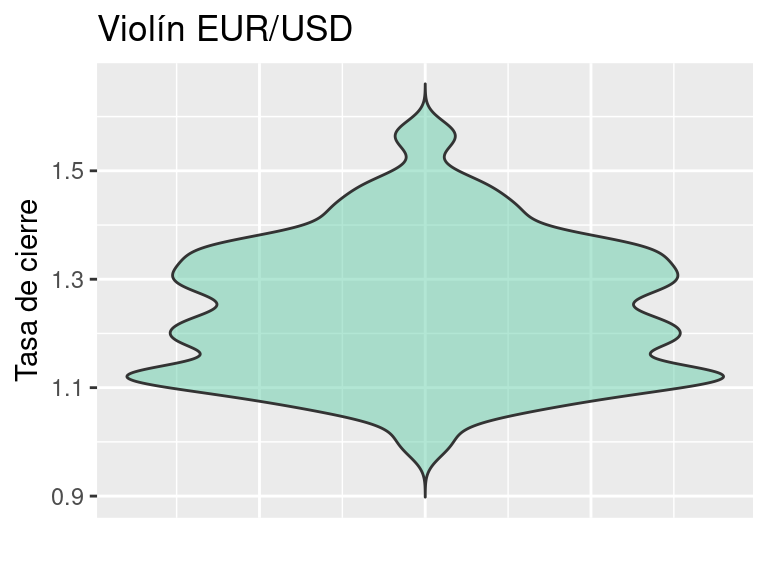
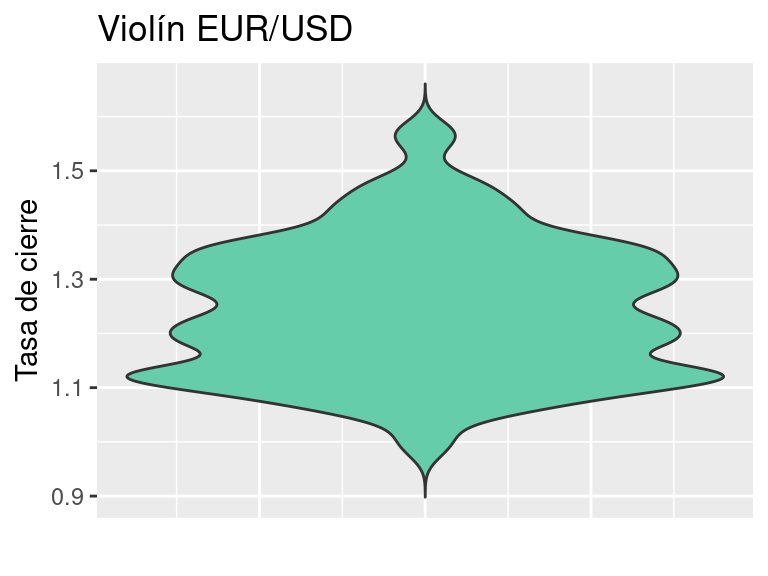
Unidad 1

Changed region(s): [[0.1562, 0.1875, 0.9375, 0.8125]]

diff --git a/docs/tópicos-básicos-de-estadística.html b/docs/tópicos-básicos-de-estadística.html
@@ -242,17 +242,14 @@ div.csl-indent {
 <li class="chapter" data-level="3.4.3" data-path="distribuciones-muestrales-y-pruebas-de-hipótesis.html"><a href="distribuciones-muestrales-y-pruebas-de-hipótesis.html#comparación-de-varianzas"><i class="fa fa-check"></i><b>3.4.3</b> Comparación de varianzas</a></li>
 <li class="chapter" data-level="3.4.4" data-path="distribuciones-muestrales-y-pruebas-de-hipótesis.html"><a href="distribuciones-muestrales-y-pruebas-de-hipótesis.html#diferencia-de-proporciones"><i class="fa fa-check"></i><b>3.4.4</b> Diferencia de proporciones</a></li>
 </ul></li>
-</ul></li>
-<li class="chapter" data-level="4" data-path="intervalos-de-confianza.html"><a href="intervalos-de-confianza.html"><i class="fa fa-check"></i><b>4</b> Intervalos de confianza</a>
+<li class="chapter" data-level="3.5" data-path="distribuciones-muestrales-y-pruebas-de-hipótesis.html"><a href="distribuciones-muestrales-y-pruebas-de-hipótesis.html#una-media-1"><i class="fa fa-check"></i><b>3.5</b> Una media</a>
 <ul>
-<li class="chapter" data-level="4.1" data-path="intervalos-de-confianza.html"><a href="intervalos-de-confianza.html#una-media-1"><i class="fa fa-check"></i><b>4.1</b> Una media</a>
-<ul>
-<li class="chapter" data-level="4.1.1" data-path="intervalos-de-confianza.html"><a href="intervalos-de-confianza.html#bajo-distribución-normal"><i class="fa fa-check"></i><b>4.1.1</b> Bajo distribución normal</a></li>
-<li class="chapter" data-level="4.1.2" data-path="intervalos-de-confianza.html"><a href="intervalos-de-confianza.html#asintótico"><i class="fa fa-check"></i><b>4.1.2</b> Asintótico</a></li>
+<li class="chapter" data-level="3.5.1" data-path="distribuciones-muestrales-y-pruebas-de-hipótesis.html"><a href="distribuciones-muestrales-y-pruebas-de-hipótesis.html#bajo-distribución-normal"><i class="fa fa-check"></i><b>3.5.1</b> Bajo distribución normal</a></li>
+<li class="chapter" data-level="3.5.2" data-path="distribuciones-muestrales-y-pruebas-de-hipótesis.html"><a href="distribuciones-muestrales-y-pruebas-de-hipótesis.html#asintótico"><i class="fa fa-check"></i><b>3.5.2</b> Asintótico</a></li>
 </ul></li>
-<li class="chapter" data-level="4.2" data-path="intervalos-de-confianza.html"><a href="intervalos-de-confianza.html#diferencia-de-medias-1"><i class="fa fa-check"></i><b>4.2</b> Diferencia de medias</a></li>
-<li class="chapter" data-level="4.3" data-path="intervalos-de-confianza.html"><a href="intervalos-de-confianza.html#compraración-de-varianzas"><i class="fa fa-check"></i><b>4.3</b> Compraración de varianzas</a></li>
-<li class="chapter" data-level="4.4" data-path="intervalos-de-confianza.html"><a href="intervalos-de-confianza.html#diferencia-de-proporciones-1"><i class="fa fa-check"></i><b>4.4</b> Diferencia de proporciones</a></li>
+<li class="chapter" data-level="3.6" data-path="distribuciones-muestrales-y-pruebas-de-hipótesis.html"><a href="distribuciones-muestrales-y-pruebas-de-hipótesis.html#diferencia-de-medias-1"><i class="fa fa-check"></i><b>3.6</b> Diferencia de medias</a></li>
+<li class="chapter" data-level="3.7" data-path="distribuciones-muestrales-y-pruebas-de-hipótesis.html"><a href="distribuciones-muestrales-y-pruebas-de-hipótesis.html#compraración-de-varianzas"><i class="fa fa-check"></i><b>3.7</b> Compraración de varianzas</a></li>
+<li class="chapter" data-level="3.8" data-path="distribuciones-muestrales-y-pruebas-de-hipótesis.html"><a href="distribuciones-muestrales-y-pruebas-de-hipótesis.html#diferencia-de-proporciones-1"><i class="fa fa-check"></i><b>3.8</b> Diferencia de proporciones</a></li>
 </ul></li>
 <li class="chapter" data-level="" data-path="referencias.html"><a href="referencias.html"><i class="fa fa-check"></i>Referencias</a></li>
 <li class="divider"></li>
@@ -501,7 +498,7 @@ Figura 1.5: Muestra 2
 <ol style="list-style-type: decimal">
 <li>Replique los anterior para el resto de variables presentes en la base de datos (ignore la variable fecha).</li>
 </ol>
-<p><strong>Nota</strong>: en el documento se usará simplemente el nombre de la medida de localización (media, moda, mediana) para referirse a la muestral. En casos determinados se hará la distinción entre el caso muestral y poblacional, según corresponda (ejemplo: media poblacional, media muestral).</p>
+<p><strong>Nota</strong>: en el documento se usará simplemente el nombre de la medida de localización (media, moda, mediana) para referirse a la medida de localización muestral. En casos determinados se hará la distinción entre el caso muestral y poblacional, según corresponda (ejemplo: media poblacional, media muestral).</p>
 </div>
 </div>
 <div id="medidas-de-escala" class="section level3 hasAnchor" number="1.1.10">
@@ -691,7 +688,7 @@ CV = \left(\frac{S}{|\bar{x}|}\right)\cdot 100\%
 <ol style="list-style-type: decimal">
 <li>Comparar la variabilidad entre la tasa de más baja y de cierre histórica del EUR/USD. Interprete.</li>
 </ol>
-<p><strong>Nota</strong>: en el documento se usará simplemente el nombre de la medida de escala (rango, varianza, desviación estándar y CV) para referirse a la muestral. En casos determinados se hará la distinción entre el caso muestral y poblacional, según corresponda (ejemplo: varianza poblacional, varianza muestral).</p>
+<p><strong>Nota</strong>: en el documento se usará simplemente el nombre de la medida de escala (rango, varianza, desviación estándar y CV) para referirse a la medida de escala muestral. En casos determinados se hará la distinción entre el caso muestral y poblacional, según corresponda (ejemplo: varianza poblacional, varianza muestral).</p>
 </div>
 <div id="notación-poblacional-y-muestral" class="section level4 unnumbered hasAnchor">
 <h4>Notación poblacional y muestral<a href="tópicos-básicos-de-estadística.html#notación-poblacional-y-muestral" class="anchor-section" aria-label="Anchor link to header"></a></h4>
@@ -765,9 +762,14 @@ Desviación estándar
 <p>Para obtener el histograma en R, a partir de un conjunto de datos, se utiliza el siguiente código:</p>
 <div class="sourceCode" id="cb36"><pre class="sourceCode r"><code class="sourceCode r"><span id="cb36-1"><a href="tópicos-básicos-de-estadística.html#cb36-1" aria-hidden="true" tabindex="-1"></a><span class="fu">library</span>(ggplot2)</span>
 <span id="cb36-2"><a href="tópicos-básicos-de-estadística.html#cb36-2" aria-hidden="true" tabindex="-1"></a><span class="fu">ggplot</span>(<span class="at">data =</span> datos, <span class="co"># Base de datos a utilizar</span></span>
-<span id="cb36-3"><a href="tópicos-básicos-de-estadística.html#cb36-3" aria-hidden="true" tabindex="-1"></a>       <span class="fu">aes</span>(<span class="at">x =</span> Close)) <span class="sc">+</span> <span class="co"># Comando estético para señalar la variable a graficar y en que eje</span></span>
-<span id="cb36-4"><a href="tópicos-básicos-de-estadística.html#cb36-4" aria-hidden="true" tabindex="-1"></a>  <span class="fu">geom_histogram</span>(<span class="at">bins =</span> <span class="dv">13</span>, <span class="at">color =</span> <span class="st">&quot;white&quot;</span>, <span class="at">fill =</span> <span class="st">&quot;darkred&quot;</span>, <span class="at">closed =</span> <span class="st">&quot;left&quot;</span>) <span class="sc">+</span></span>
-<span id="cb36-5"><a href="tópicos-básicos-de-estadística.html#cb36-5" aria-hidden="true" tabindex="-1"></a>  <span class="fu">labs</span>(<span class="at">title =</span> <span class="st">&quot;Histograma EUR/USD&quot;</span>, <span class="at">x =</span> <span class="st">&quot;Tasa de cierre&quot;</span>, <span class="at">y =</span> <span class="st">&quot;Frecuencia&quot;</span>)</span></code></pre></div>
+<span id="cb36-3"><a href="tópicos-básicos-de-estadística.html#cb36-3" aria-hidden="true" tabindex="-1"></a>       <span class="fu">aes</span>(<span class="at">x =</span> Close)) <span class="sc">+</span> <span class="co"># Comando estético: eje y variable</span></span>
+<span id="cb36-4"><a href="tópicos-básicos-de-estadística.html#cb36-4" aria-hidden="true" tabindex="-1"></a>  <span class="fu">geom_histogram</span>(<span class="at">bins =</span> <span class="dv">13</span>, <span class="co"># Cantidad de intervalos del histograma</span></span>
+<span id="cb36-5"><a href="tópicos-básicos-de-estadística.html#cb36-5" aria-hidden="true" tabindex="-1"></a>                 <span class="at">color =</span> <span class="st">&quot;white&quot;</span>, <span class="co"># Color del borde de las barras del histograma</span></span>
+<span id="cb36-6"><a href="tópicos-básicos-de-estadística.html#cb36-6" aria-hidden="true" tabindex="-1"></a>                 <span class="at">fill =</span> <span class="st">&quot;darkred&quot;</span>, <span class="co"># Color de relleno de las barras</span></span>
+<span id="cb36-7"><a href="tópicos-básicos-de-estadística.html#cb36-7" aria-hidden="true" tabindex="-1"></a>                 <span class="at">closed =</span> <span class="st">&quot;left&quot;</span>) <span class="sc">+</span> <span class="co"># Tipo de intervalo del histograma</span></span>
+<span id="cb36-8"><a href="tópicos-básicos-de-estadística.html#cb36-8" aria-hidden="true" tabindex="-1"></a>  <span class="fu">labs</span>(<span class="at">title =</span> <span class="st">&quot;Histograma EUR/USD&quot;</span>, <span class="co"># Título del gráfico</span></span>
+<span id="cb36-9"><a href="tópicos-básicos-de-estadística.html#cb36-9" aria-hidden="true" tabindex="-1"></a>       <span class="at">x =</span> <span class="st">&quot;Tasa de cierre&quot;</span>, <span class="co"># Título del eje X</span></span>
+<span id="cb36-10"><a href="tópicos-básicos-de-estadística.html#cb36-10" aria-hidden="true" tabindex="-1"></a>       <span class="at">y =</span> <span class="st">&quot;Frecuencia&quot;</span>) <span class="co"># Título del eje Y</span></span></code></pre></div>
 <p><img src="est1+descriptiva_files/figure-html/unnamed-chunk-13-1.png" width="384" style="display: block; margin: auto;" /></p>
 <p>Es útil recordar que el histograma está asociado a una tabla de frecuencia por intervalos. Para obtener la tabla asociada a un histograma se puede utilizar el siguiente código.</p>
 <div class="sourceCode" id="cb37"><pre class="sourceCode r"><code class="sourceCode r"><span id="cb37-1"><a href="tópicos-básicos-de-estadística.html#cb37-1" aria-hidden="true" tabindex="-1"></a><span class="co"># Datos del histograma guardados</span></span>
@@ -791,46 +793,89 @@ Desviación estándar
 ## 11  1.45  1.50 1.475       166        3.3 4844  97.5
 ## 12  1.50  1.55 1.525        38        0.8 4882  98.3
 ## 13  1.55  1.60 1.575        84        1.7 4966 100.0</code></pre>
+<p><strong>Ejercicio:</strong></p>
+<ol style="list-style-type: decimal">
+<li>Elaborar un histograma y obtener la tabla de frecuencias asociada, utilizando la variable <strong>Low</strong>.</li>
+</ol>
 </div>
 <div id="caja" class="section level3 hasAnchor" number="1.2.2">
 <h3><span class="header-section-number">1.2.2</span> Caja<a href="tópicos-básicos-de-estadística.html#caja" class="anchor-section" aria-label="Anchor link to header"></a></h3>
-<p>Este gráfico se utiliza para evidenciar las medidas de posición conocidas como cuartiles.</p>
-<div class="sourceCode" id="cb39"><pre class="sourceCode r"><code class="sourceCode r"><span id="cb39-1"><a href="tópicos-básicos-de-estadística.html#cb39-1" aria-hidden="true" tabindex="-1"></a><span class="fu">ggplot</span>(<span class="at">data =</span> datos, <span class="fu">aes</span>(<span class="at">y =</span> Close)) <span class="sc">+</span> </span>
-<span id="cb39-2"><a href="tópicos-básicos-de-estadística.html#cb39-2" aria-hidden="true" tabindex="-1"></a>  <span class="fu">geom_boxplot</span>(<span class="at">color =</span> <span class="st">&quot;black&quot;</span>, <span class="at">fill =</span> <span class="st">&quot;darkred&quot;</span>) <span class="sc">+</span></span>
-<span id="cb39-3"><a href="tópicos-básicos-de-estadística.html#cb39-3" aria-hidden="true" tabindex="-1"></a>  <span class="fu">labs</span>(<span class="at">title =</span> <span class="st">&quot;Caja EUR/USD&quot;</span>, <span class="at">x =</span> <span class="st">&quot;Tasa de cierre&quot;</span>, <span class="at">y =</span> <span class="st">&quot;Dispersión/Cuantiles&quot;</span>) </span></code></pre></div>
+<p>El gráfico de caja se utiliza para describir las siguiente características de un conjunto de datos <span class="citation">(<a href="#ref-Devore" role="doc-biblioref">Devore 2008</a>, página 35)</span>:</p>
+<ul>
+<li>El centro.</li>
+<li>La dispersión.</li>
+<li>El grado y naturaleza de cualquier alejamiento de la simetría.</li>
+<li>La identificación de las observaciones “extremas” (atípicas) inusualmente alejadas del cuerpo principal de los datos.</li>
+</ul>
+<p>Los pasos para elaborar un gráfico de caja son los siguiente <span class="citation">(<a href="#ref-anderson" role="doc-biblioref">Anderson, Sweeney, and Williams 2008</a>, página 106)</span>:</p>
+<ol style="list-style-type: decimal">
+<li>Se dibuja una caja cuyos extremos se localicen en primer y tercer cuartiles. Esta caja contiene 50% de los datos centrales.</li>
+<li>En el punto donde se localiza la mediana se traza una linea horizontal.</li>
+<li>Usando el rango intercuartílico (<span class="math inline">\(RIC = Q_3-Q_1\)</span>), se localizan los límites. En un gráfio de cajua los límites se encuentra a <span class="math inline">\(1.5RIC\)</span> abajo y arriba de <span class="math inline">\(Q_1\)</span> y <span class="math inline">\(Q_3\)</span> respectivamente. Los datos que quedan fuera de estos límites se consideran observaciones atípicas.</li>
+<li>Las lineas que se extieden verticalmente desde la caja se les llama <em>bigotes</em>. Los bigotes van desde los extremos de la caja hasta los valores menor y mayor de los límites calculadso en el paso 3.</li>
+<li>Mediante puntos se indica la localización de las observaciones atípicas.</li>
+</ol>
+<div class="sourceCode" id="cb39"><pre class="sourceCode r"><code class="sourceCode r"><span id="cb39-1"><a href="tópicos-básicos-de-estadística.html#cb39-1" aria-hidden="true" tabindex="-1"></a><span class="fu">ggplot</span>(<span class="at">data =</span> datos, <span class="co"># Base de datos a utilizar</span></span>
+<span id="cb39-2"><a href="tópicos-básicos-de-estadística.html#cb39-2" aria-hidden="true" tabindex="-1"></a>       <span class="fu">aes</span>(<span class="at">y =</span> Close)) <span class="sc">+</span> <span class="co"># Comando estético: eje y variable</span></span>
+<span id="cb39-3"><a href="tópicos-básicos-de-estadística.html#cb39-3" aria-hidden="true" tabindex="-1"></a>  <span class="fu">geom_boxplot</span>(<span class="at">color =</span> <span class="st">&quot;black&quot;</span>, <span class="co"># Color del borde del gráfico</span></span>
+<span id="cb39-4"><a href="tópicos-básicos-de-estadística.html#cb39-4" aria-hidden="true" tabindex="-1"></a>               <span class="at">fill =</span> <span class="st">&quot;darkred&quot;</span>) <span class="sc">+</span> <span class="co"># Color de relleno del gráfico</span></span>
+<span id="cb39-5"><a href="tópicos-básicos-de-estadística.html#cb39-5" aria-hidden="true" tabindex="-1"></a>  <span class="fu">labs</span>(<span class="at">title =</span> <span class="st">&quot;Caja EUR/USD&quot;</span>, <span class="co"># Título del gráfico</span></span>
+<span id="cb39-6"><a href="tópicos-básicos-de-estadística.html#cb39-6" aria-hidden="true" tabindex="-1"></a>       <span class="at">x =</span> <span class="st">&quot;Tasa de cierre&quot;</span>, <span class="co"># Título del eje X</span></span>
+<span id="cb39-7"><a href="tópicos-básicos-de-estadística.html#cb39-7" aria-hidden="true" tabindex="-1"></a>       <span class="at">y =</span> <span class="st">&quot;Dispersión/Cuantiles&quot;</span>) <span class="co"># Título del eje Y</span></span></code></pre></div>
 <p><img src="est1+descriptiva_files/figure-html/unnamed-chunk-15-1.png" width="384" style="display: block; margin: auto;" /></p>
 </div>
 <div id="violín" class="section level3 hasAnchor" number="1.2.3">
 <h3><span class="header-section-number">1.2.3</span> Violín<a href="tópicos-básicos-de-estadística.html#violín" class="anchor-section" aria-label="Anchor link to header"></a></h3>
 <p>Gráfico utilizado para conocer la concentración de datos; es muy similar al histograma.</p>
-<div class="sourceCode" id="cb40"><pre class="sourceCode r"><code class="sourceCode r"><span id="cb40-1"><a href="tópicos-básicos-de-estadística.html#cb40-1" aria-hidden="true" tabindex="-1"></a>g <span class="ot">=</span> <span class="fu">ggplot</span>(<span class="at">data =</span> datos, <span class="fu">aes</span>(<span class="at">x =</span> <span class="dv">1</span>, <span class="at">y =</span> Close)) <span class="sc">+</span> </span>
-<span id="cb40-2"><a href="tópicos-básicos-de-estadística.html#cb40-2" aria-hidden="true" tabindex="-1"></a>  <span class="fu">geom_violin</span>(<span class="at">trim =</span> F, <span class="at">alpha =</span> <span class="fl">0.5</span>, <span class="at">fill =</span> <span class="st">&quot;aquamarine3&quot;</span>) <span class="sc">+</span></span>
-<span id="cb40-3"><a href="tópicos-básicos-de-estadística.html#cb40-3" aria-hidden="true" tabindex="-1"></a>  <span class="fu">labs</span>(<span class="at">title =</span> <span class="st">&quot;Violín EUR/USD&quot;</span>, <span class="at">x =</span> <span class="st">&quot;&quot;</span>, <span class="at">y =</span> <span class="st">&quot;Tasa de cierre&quot;</span>) <span class="sc">+</span> </span>
-<span id="cb40-4"><a href="tópicos-básicos-de-estadística.html#cb40-4" aria-hidden="true" tabindex="-1"></a>  <span class="fu">theme</span>(<span class="at">axis.ticks.x =</span> <span class="fu">element_blank</span>(),</span>
-<span id="cb40-5"><a href="tópicos-básicos-de-estadística.html#cb40-5" aria-hidden="true" tabindex="-1"></a>        <span class="at">axis.text.x =</span> <span class="fu">element_blank</span>())</span>
-<span id="cb40-6"><a href="tópicos-básicos-de-estadística.html#cb40-6" aria-hidden="true" tabindex="-1"></a>g</span></code></pre></div>
+<div class="sourceCode" id="cb40"><pre class="sourceCode r"><code class="sourceCode r"><span id="cb40-1"><a href="tópicos-básicos-de-estadística.html#cb40-1" aria-hidden="true" tabindex="-1"></a><span class="co"># Se guarda el gráfico en una variable para posteriormente</span></span>
+<span id="cb40-2"><a href="tópicos-básicos-de-estadística.html#cb40-2" aria-hidden="true" tabindex="-1"></a><span class="co"># integrar otros gráficos dentro de este.</span></span>
+<span id="cb40-3"><a href="tópicos-básicos-de-estadística.html#cb40-3" aria-hidden="true" tabindex="-1"></a>g <span class="ot">=</span> <span class="fu">ggplot</span>(<span class="at">data =</span> datos, <span class="co"># Base de datos a utilizar</span></span>
+<span id="cb40-4"><a href="tópicos-básicos-de-estadística.html#cb40-4" aria-hidden="true" tabindex="-1"></a>           <span class="fu">aes</span>(<span class="at">x =</span> <span class="dv">1</span>, <span class="at">y =</span> Close)) <span class="sc">+</span> <span class="co"># Comando estético: variables a graficar </span></span>
+<span id="cb40-5"><a href="tópicos-básicos-de-estadística.html#cb40-5" aria-hidden="true" tabindex="-1"></a>  <span class="fu">geom_violin</span>(<span class="at">trim =</span> F, <span class="co"># Modifica las terminaciones visuales superior e inferior</span></span>
+<span id="cb40-6"><a href="tópicos-básicos-de-estadística.html#cb40-6" aria-hidden="true" tabindex="-1"></a>              <span class="at">fill =</span> <span class="st">&quot;aquamarine3&quot;</span>) <span class="sc">+</span> <span class="co"># Color de relleno del gráfico</span></span>
+<span id="cb40-7"><a href="tópicos-básicos-de-estadística.html#cb40-7" aria-hidden="true" tabindex="-1"></a>  <span class="fu">labs</span>(<span class="at">title =</span> <span class="st">&quot;Violín EUR/USD&quot;</span>, <span class="co"># Título del gráfico</span></span>
+<span id="cb40-8"><a href="tópicos-básicos-de-estadística.html#cb40-8" aria-hidden="true" tabindex="-1"></a>       <span class="at">x =</span> <span class="st">&quot;&quot;</span>, <span class="co"># Título del eje X</span></span>
+<span id="cb40-9"><a href="tópicos-básicos-de-estadística.html#cb40-9" aria-hidden="true" tabindex="-1"></a>       <span class="at">y =</span> <span class="st">&quot;Tasa de cierre&quot;</span>) <span class="sc">+</span> <span class="co"># Título del eje Y</span></span>
+<span id="cb40-10"><a href="tópicos-básicos-de-estadística.html#cb40-10" aria-hidden="true" tabindex="-1"></a>  <span class="fu">theme</span>(<span class="at">axis.ticks.x =</span> <span class="fu">element_blank</span>(), <span class="co"># Elimina las regletas del eje X</span></span>
+<span id="cb40-11"><a href="tópicos-básicos-de-estadística.html#cb40-11" aria-hidden="true" tabindex="-1"></a>        <span class="at">axis.text.x =</span> <span class="fu">element_blank</span>()) <span class="co"># Elimina los números del eje X</span></span>
+<span id="cb40-12"><a href="tópicos-básicos-de-estadística.html#cb40-12" aria-hidden="true" tabindex="-1"></a>g <span class="co"># Desplegamos el gráfico en el visualizador</span></span></code></pre></div>
 <p><img src="est1+descriptiva_files/figure-html/unnamed-chunk-16-1.png" width="384" style="display: block; margin: auto;" /></p>
-<div class="sourceCode" id="cb41"><pre class="sourceCode r"><code class="sourceCode r"><span id="cb41-1"><a href="tópicos-básicos-de-estadística.html#cb41-1" aria-hidden="true" tabindex="-1"></a>g <span class="sc">+</span> <span class="fu">geom_boxplot</span>(<span class="at">width =</span> <span class="fl">0.1</span>, <span class="at">color =</span> <span class="st">&quot;black&quot;</span>,</span>
-<span id="cb41-2"><a href="tópicos-básicos-de-estadística.html#cb41-2" aria-hidden="true" tabindex="-1"></a>                 <span class="at">alpha =</span> <span class="fl">0.3</span>, <span class="at">fill =</span> <span class="st">&quot;darkblue&quot;</span>)  <span class="sc">+</span></span>
-<span id="cb41-3"><a href="tópicos-básicos-de-estadística.html#cb41-3" aria-hidden="true" tabindex="-1"></a>  <span class="fu">stat_summary</span>(<span class="at">fun =</span> mean, <span class="at">geom =</span> <span class="st">&quot;point&quot;</span>,</span>
-<span id="cb41-4"><a href="tópicos-básicos-de-estadística.html#cb41-4" aria-hidden="true" tabindex="-1"></a>               <span class="at">size =</span> <span class="dv">1</span>, <span class="at">color =</span> <span class="st">&quot;red&quot;</span>)</span></code></pre></div>
+<div class="sourceCode" id="cb41"><pre class="sourceCode r"><code class="sourceCode r"><span id="cb41-1"><a href="tópicos-básicos-de-estadística.html#cb41-1" aria-hidden="true" tabindex="-1"></a><span class="co"># Agregamos otros elementos al gráfico guardado</span></span>
+<span id="cb41-2"><a href="tópicos-básicos-de-estadística.html#cb41-2" aria-hidden="true" tabindex="-1"></a>g <span class="sc">+</span> <span class="fu">geom_boxplot</span>(<span class="at">width =</span> <span class="fl">0.1</span>, <span class="co"># Anchura del nuevo gráfico de caja</span></span>
+<span id="cb41-3"><a href="tópicos-básicos-de-estadística.html#cb41-3" aria-hidden="true" tabindex="-1"></a>                 <span class="at">color =</span> <span class="st">&quot;black&quot;</span>, <span class="co"># Color de borde del gráfico</span></span>
+<span id="cb41-4"><a href="tópicos-básicos-de-estadística.html#cb41-4" aria-hidden="true" tabindex="-1"></a>                 <span class="at">fill =</span> <span class="st">&quot;lightblue2&quot;</span>) <span class="sc">+</span> <span class="co"># Color de relleno del gráfico</span></span>
+<span id="cb41-5"><a href="tópicos-básicos-de-estadística.html#cb41-5" aria-hidden="true" tabindex="-1"></a>  <span class="fu">stat_summary</span>(<span class="at">fun =</span> mean, <span class="co"># Función que indica el tipo de información (mean = media)</span></span>
+<span id="cb41-6"><a href="tópicos-básicos-de-estadística.html#cb41-6" aria-hidden="true" tabindex="-1"></a>               <span class="at">geom =</span> <span class="st">&quot;point&quot;</span>, <span class="co"># Forma visual</span></span>
+<span id="cb41-7"><a href="tópicos-básicos-de-estadística.html#cb41-7" aria-hidden="true" tabindex="-1"></a>               <span class="at">size =</span> <span class="dv">1</span>, <span class="co"># Tamaño</span></span>
+<span id="cb41-8"><a href="tópicos-básicos-de-estadística.html#cb41-8" aria-hidden="true" tabindex="-1"></a>               <span class="at">color =</span> <span class="st">&quot;red&quot;</span>) <span class="co"># Color</span></span></code></pre></div>
 <p><img src="est1+descriptiva_files/figure-html/unnamed-chunk-17-1.png" width="384" style="display: block; margin: auto;" /></p>
 </div>
 <div id="barras" class="section level3 hasAnchor" number="1.2.4">
 <h3><span class="header-section-number">1.2.4</span> Barras<a href="tópicos-básicos-de-estadística.html#barras" class="anchor-section" aria-label="Anchor link to header"></a></h3>
 <p>Gráfico por excelencia para visualizar la frecuencia de variables cualitativas.</p>
-<div class="sourceCode" id="cb42"><pre class="sourceCode r"><code class="sourceCode r"><span id="cb42-1"><a href="tópicos-básicos-de-estadística.html#cb42-1" aria-hidden="true" tabindex="-1"></a>datos<span class="sc">$</span>Close2 <span class="ot">=</span> <span class="fu">ifelse</span>(datos<span class="sc">$</span>Close <span class="sc">&gt;</span> <span class="fl">1.1</span>, <span class="st">&quot;Mayor a 1.1&quot;</span>, <span class="st">&quot;Menor a  1.1&quot;</span>)</span>
-<span id="cb42-2"><a href="tópicos-básicos-de-estadística.html#cb42-2" aria-hidden="true" tabindex="-1"></a><span class="fu">ggplot</span>(<span class="at">data =</span> datos,<span class="fu">aes</span>(<span class="at">x =</span> Close2)) <span class="sc">+</span> </span>
-<span id="cb42-3"><a href="tópicos-básicos-de-estadística.html#cb42-3" aria-hidden="true" tabindex="-1"></a>  <span class="fu">geom_bar</span>(<span class="at">fill =</span> <span class="st">&quot;darkgreen&quot;</span>) <span class="sc">+</span> </span>
-<span id="cb42-4"><a href="tópicos-básicos-de-estadística.html#cb42-4" aria-hidden="true" tabindex="-1"></a>  <span class="fu">labs</span>(<span class="at">title =</span> <span class="st">&quot;Barras EUR/USD&quot;</span>, <span class="at">x =</span> <span class="st">&quot;Tasa de cierre&quot;</span>, <span class="at">y =</span> <span class="st">&quot;Frecuencia&quot;</span>)</span></code></pre></div>
+<div class="sourceCode" id="cb42"><pre class="sourceCode r"><code class="sourceCode r"><span id="cb42-1"><a href="tópicos-básicos-de-estadística.html#cb42-1" aria-hidden="true" tabindex="-1"></a><span class="co"># Nueva variable para dicotomizar la tasa de cierre del EUR/USD</span></span>
+<span id="cb42-2"><a href="tópicos-básicos-de-estadística.html#cb42-2" aria-hidden="true" tabindex="-1"></a>datos<span class="sc">$</span>Close2 <span class="ot">=</span> <span class="fu">ifelse</span>(datos<span class="sc">$</span>Close <span class="sc">&gt;</span> <span class="fl">1.1</span>, <span class="co"># Criterio</span></span>
+<span id="cb42-3"><a href="tópicos-básicos-de-estadística.html#cb42-3" aria-hidden="true" tabindex="-1"></a>                      <span class="st">&quot;Mayor a 1.1&quot;</span>, <span class="co"># Valor asignado si se cumple el criterio</span></span>
+<span id="cb42-4"><a href="tópicos-básicos-de-estadística.html#cb42-4" aria-hidden="true" tabindex="-1"></a>                      <span class="st">&quot;Menor a  1.1&quot;</span>) <span class="co"># Valor asignado si no se cumple el criterio</span></span>
+<span id="cb42-5"><a href="tópicos-básicos-de-estadística.html#cb42-5" aria-hidden="true" tabindex="-1"></a><span class="fu">ggplot</span>(<span class="at">data =</span> datos, <span class="co"># Base de datos a utilizar</span></span>
+<span id="cb42-6"><a href="tópicos-básicos-de-estadística.html#cb42-6" aria-hidden="true" tabindex="-1"></a>       <span class="fu">aes</span>(<span class="at">x =</span> Close2)) <span class="sc">+</span> <span class="co"># Comando estético: eje y variable</span></span>
+<span id="cb42-7"><a href="tópicos-básicos-de-estadística.html#cb42-7" aria-hidden="true" tabindex="-1"></a>  <span class="fu">geom_bar</span>(<span class="at">fill =</span> <span class="st">&quot;darkgreen&quot;</span>) <span class="sc">+</span> <span class="co"># Color de relleno</span></span>
+<span id="cb42-8"><a href="tópicos-básicos-de-estadística.html#cb42-8" aria-hidden="true" tabindex="-1"></a>  <span class="fu">labs</span>(<span class="at">title =</span> <span class="st">&quot;Barras EUR/USD&quot;</span>, <span class="co"># Título del gráfico</span></span>
+<span id="cb42-9"><a href="tópicos-básicos-de-estadística.html#cb42-9" aria-hidden="true" tabindex="-1"></a>       <span class="at">x =</span> <span class="st">&quot;Tasa de cierre&quot;</span>, <span class="co"># Título del eje X</span></span>
+<span id="cb42-10"><a href="tópicos-básicos-de-estadística.html#cb42-10" aria-hidden="true" tabindex="-1"></a>       <span class="at">y =</span> <span class="st">&quot;Frecuencia&quot;</span>) <span class="co"># Título del eje Y</span></span></code></pre></div>
 <p><img src="est1+descriptiva_files/figure-html/unnamed-chunk-18-1.png" width="384" style="display: block; margin: auto;" /></p>
 </div>
 <div id="dispersión" class="section level3 hasAnchor" number="1.2.5">
 <h3><span class="header-section-number">1.2.5</span> Dispersión<a href="tópicos-básicos-de-estadística.html#dispersión" class="anchor-section" aria-label="Anchor link to header"></a></h3>
 <p>Gráfico que permite contrastar dos variables cuantitativas. En general, se usa para estudiar la asociación entre dos variables.</p>
-<div class="sourceCode" id="cb43"><pre class="sourceCode r"><code class="sourceCode r"><span id="cb43-1"><a href="tópicos-básicos-de-estadística.html#cb43-1" aria-hidden="true" tabindex="-1"></a><span class="fu">ggplot</span>(<span class="at">data =</span> datos, <span class="fu">aes</span>(<span class="at">x =</span> Open, <span class="at">y =</span> Close)) <span class="sc">+</span></span>
-<span id="cb43-2"><a href="tópicos-básicos-de-estadística.html#cb43-2" aria-hidden="true" tabindex="-1"></a>  <span class="fu">geom_point</span>() <span class="sc">+</span></span>
-<span id="cb43-3"><a href="tópicos-básicos-de-estadística.html#cb43-3" aria-hidden="true" tabindex="-1"></a>  <span class="fu">labs</span>(<span class="at">title =</span> <span class="st">&quot;Dispersión EUR/USD&quot;</span>, <span class="at">x =</span> <span class="st">&quot;Tasa de apertura&quot;</span>, <span class="at">y =</span> <span class="st">&quot;Tasa de cierre&quot;</span>)</span></code></pre></div>
+<div class="sourceCode" id="cb43"><pre class="sourceCode r"><code class="sourceCode r"><span id="cb43-1"><a href="tópicos-básicos-de-estadística.html#cb43-1" aria-hidden="true" tabindex="-1"></a><span class="fu">ggplot</span>(<span class="at">data =</span> datos, <span class="co"># Base de datos a utilizar</span></span>
+<span id="cb43-2"><a href="tópicos-básicos-de-estadística.html#cb43-2" aria-hidden="true" tabindex="-1"></a>       <span class="fu">aes</span>(<span class="at">x =</span> Open, <span class="co"># Comandos estéticos: Eje X y variable asociada</span></span>
+<span id="cb43-3"><a href="tópicos-básicos-de-estadística.html#cb43-3" aria-hidden="true" tabindex="-1"></a>           <span class="at">y =</span> Close)) <span class="sc">+</span>  <span class="co"># Eje Y y variable asociada</span></span>
+<span id="cb43-4"><a href="tópicos-básicos-de-estadística.html#cb43-4" aria-hidden="true" tabindex="-1"></a>  <span class="fu">geom_point</span>(<span class="at">color =</span> <span class="st">&quot;darkblue&quot;</span>, <span class="co"># Color de los puntos</span></span>
+<span id="cb43-5"><a href="tópicos-básicos-de-estadística.html#cb43-5" aria-hidden="true" tabindex="-1"></a>             <span class="at">alpha =</span> <span class="fl">0.3</span>) <span class="sc">+</span> <span class="co"># # Opacidad de los puntos</span></span>
+<span id="cb43-6"><a href="tópicos-básicos-de-estadística.html#cb43-6" aria-hidden="true" tabindex="-1"></a>  <span class="fu">labs</span>(<span class="at">title =</span> <span class="st">&quot;Dispersión EUR/USD&quot;</span>, <span class="co"># Título del gráfico</span></span>
+<span id="cb43-7"><a href="tópicos-básicos-de-estadística.html#cb43-7" aria-hidden="true" tabindex="-1"></a>       <span class="at">x =</span> <span class="st">&quot;Tasa de apertura&quot;</span>, <span class="co"># Título del eje X</span></span>
+<span id="cb43-8"><a href="tópicos-básicos-de-estadística.html#cb43-8" aria-hidden="true" tabindex="-1"></a>       <span class="at">y =</span> <span class="st">&quot;Tasa de cierre&quot;</span>) <span class="co"># Título del eje Y</span></span></code></pre></div>
 <p><img src="est1+descriptiva_files/figure-html/unnamed-chunk-19-1.png" width="768" style="display: block; margin: auto;" /></p>
 </div>
 </div>
